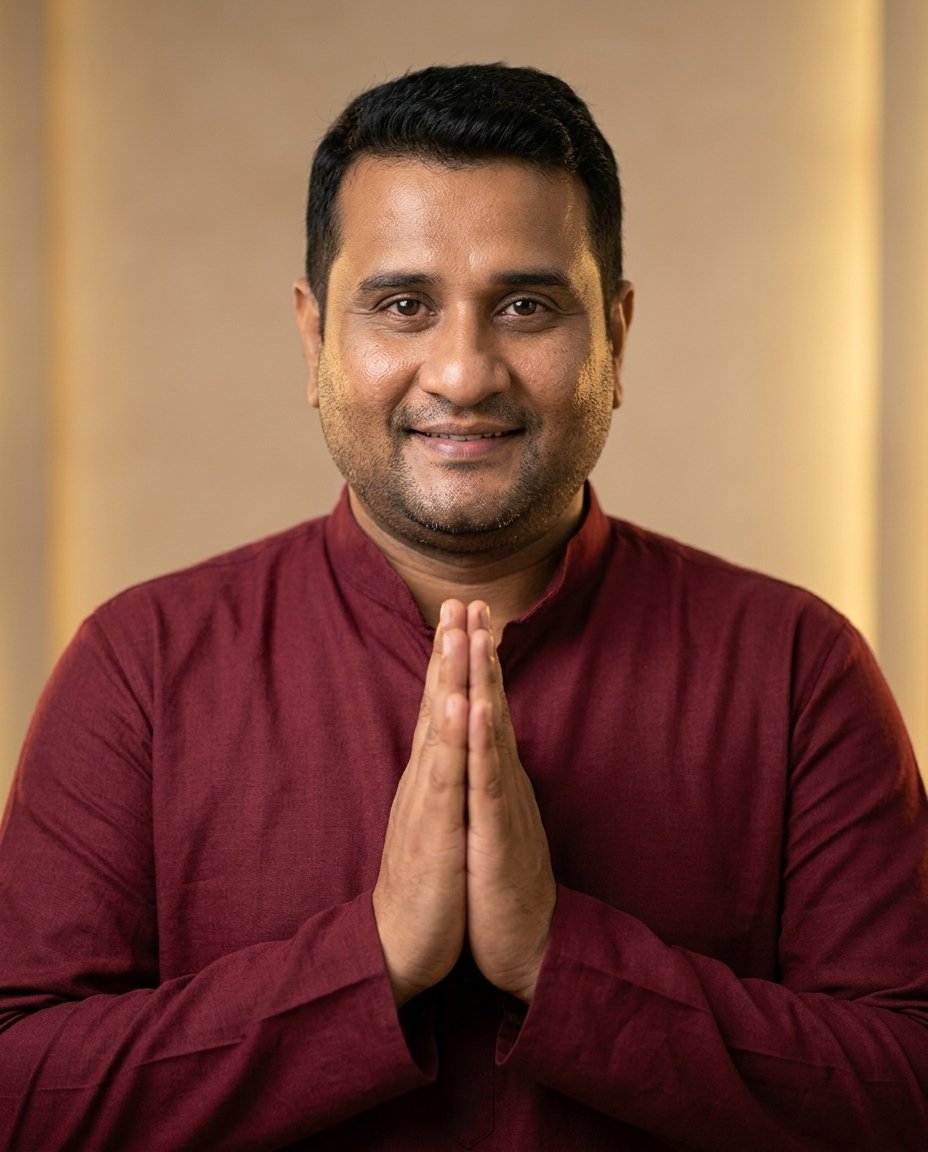
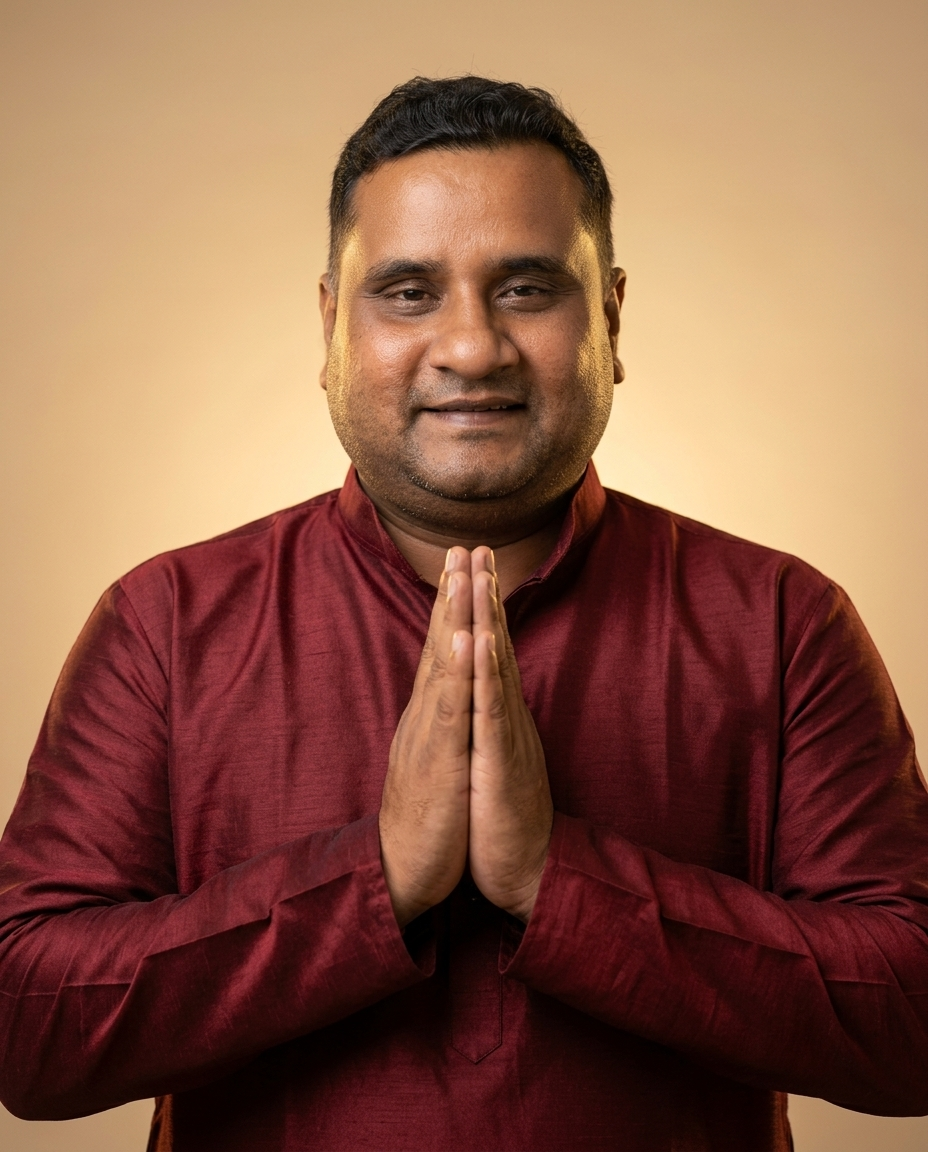
auto-commit for e715f271-258f-4012-b41d-bd5933a65bd8

diff --git a/frontend/src/pages/NameNumerology.jsx b/frontend/src/pages/NameNumerology.jsx
@@ -150,6 +150,20 @@ export default function NameNumerology() {
           >
             Name <em className="gold-shimmer not-italic font-medium">Numerology</em> Calculator
           </h1>
+
+          {/* Quick link to Personal Year */}
+          <Link
+            to="/personal-year"
+            data-testid="calc-top-personal-year-link"
+            className="mt-4 inline-flex items-center gap-2 text-sm sm:text-base text-[#F3D060] hover:text-[#fff2c2] transition-colors group"
+          >
+            <CalendarHeart size={16} className="text-[#D4AF37] group-hover:rotate-6 transition-transform" />
+            <span className="font-serif italic" style={{ fontWeight: 500 }}>
+              Calculate your Personal Year too
+            </span>
+            <ArrowRight size={15} className="group-hover:translate-x-1 transition-transform" />
+          </Link>
+
           <p className="mt-4 sm:mt-5 text-base text-[#C8BED6] font-light leading-relaxed">
             Enter your full birth name to discover three guiding vibrations —
             <span className="text-[#F8F5F0]"> Expression</span> (destiny),